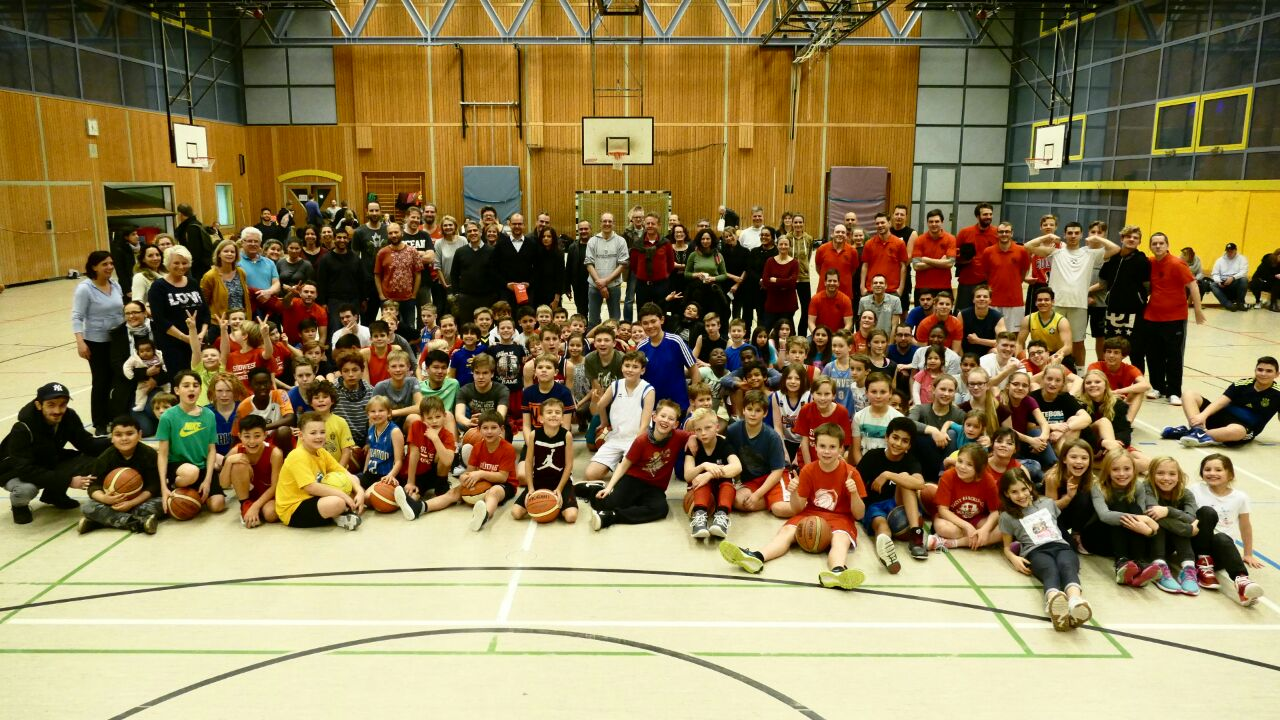
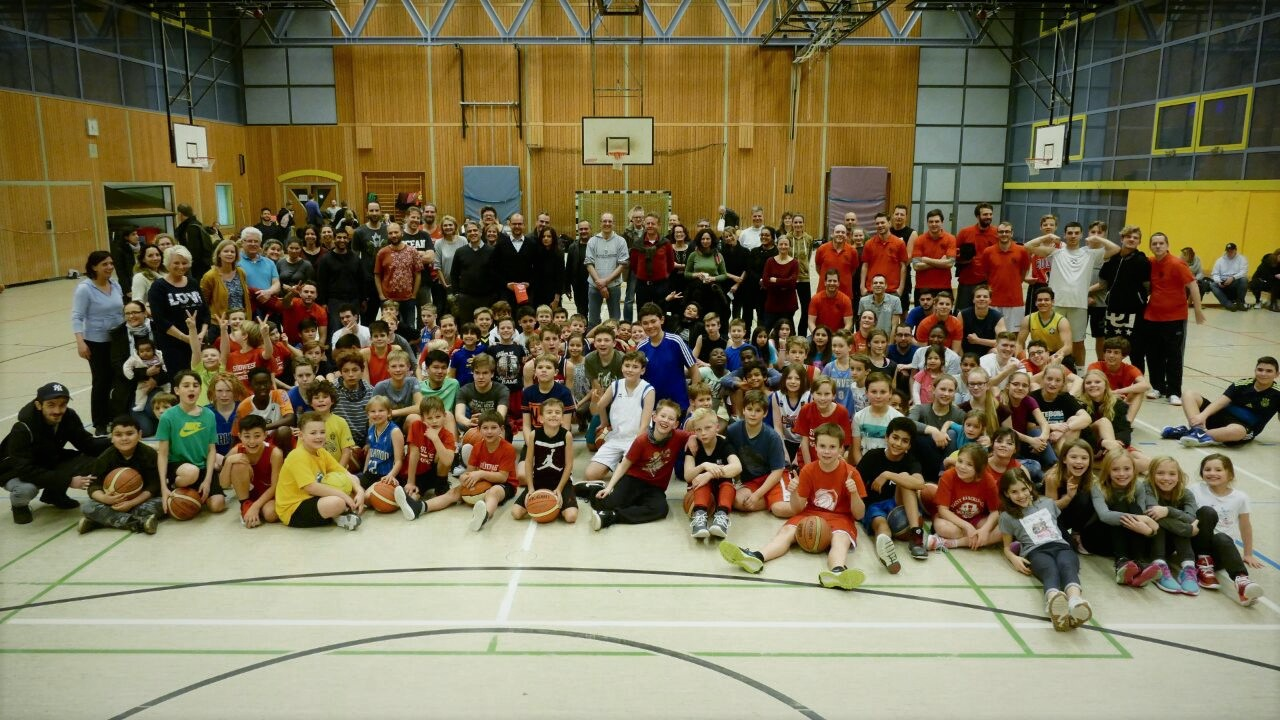
g

diff --git a/index.html b/index.html
@@ -180,7 +180,7 @@
 								</div>
 							</div>-->
 							<div class="col-md-8 col-sm-8">
-								<div class="fh5co-grid animate-box" style="background-image: url(images/gruppenbild weihnachtsfest.jpeg);">
+								<div class="fh5co-grid animate-box" style="background-image: url(images/gruppenbild%20weihnachtsfest.jpeg);">
 									<a class="image-popup text-center" href="#">
 										<div class="prod-title">
 											<h3></h3>
